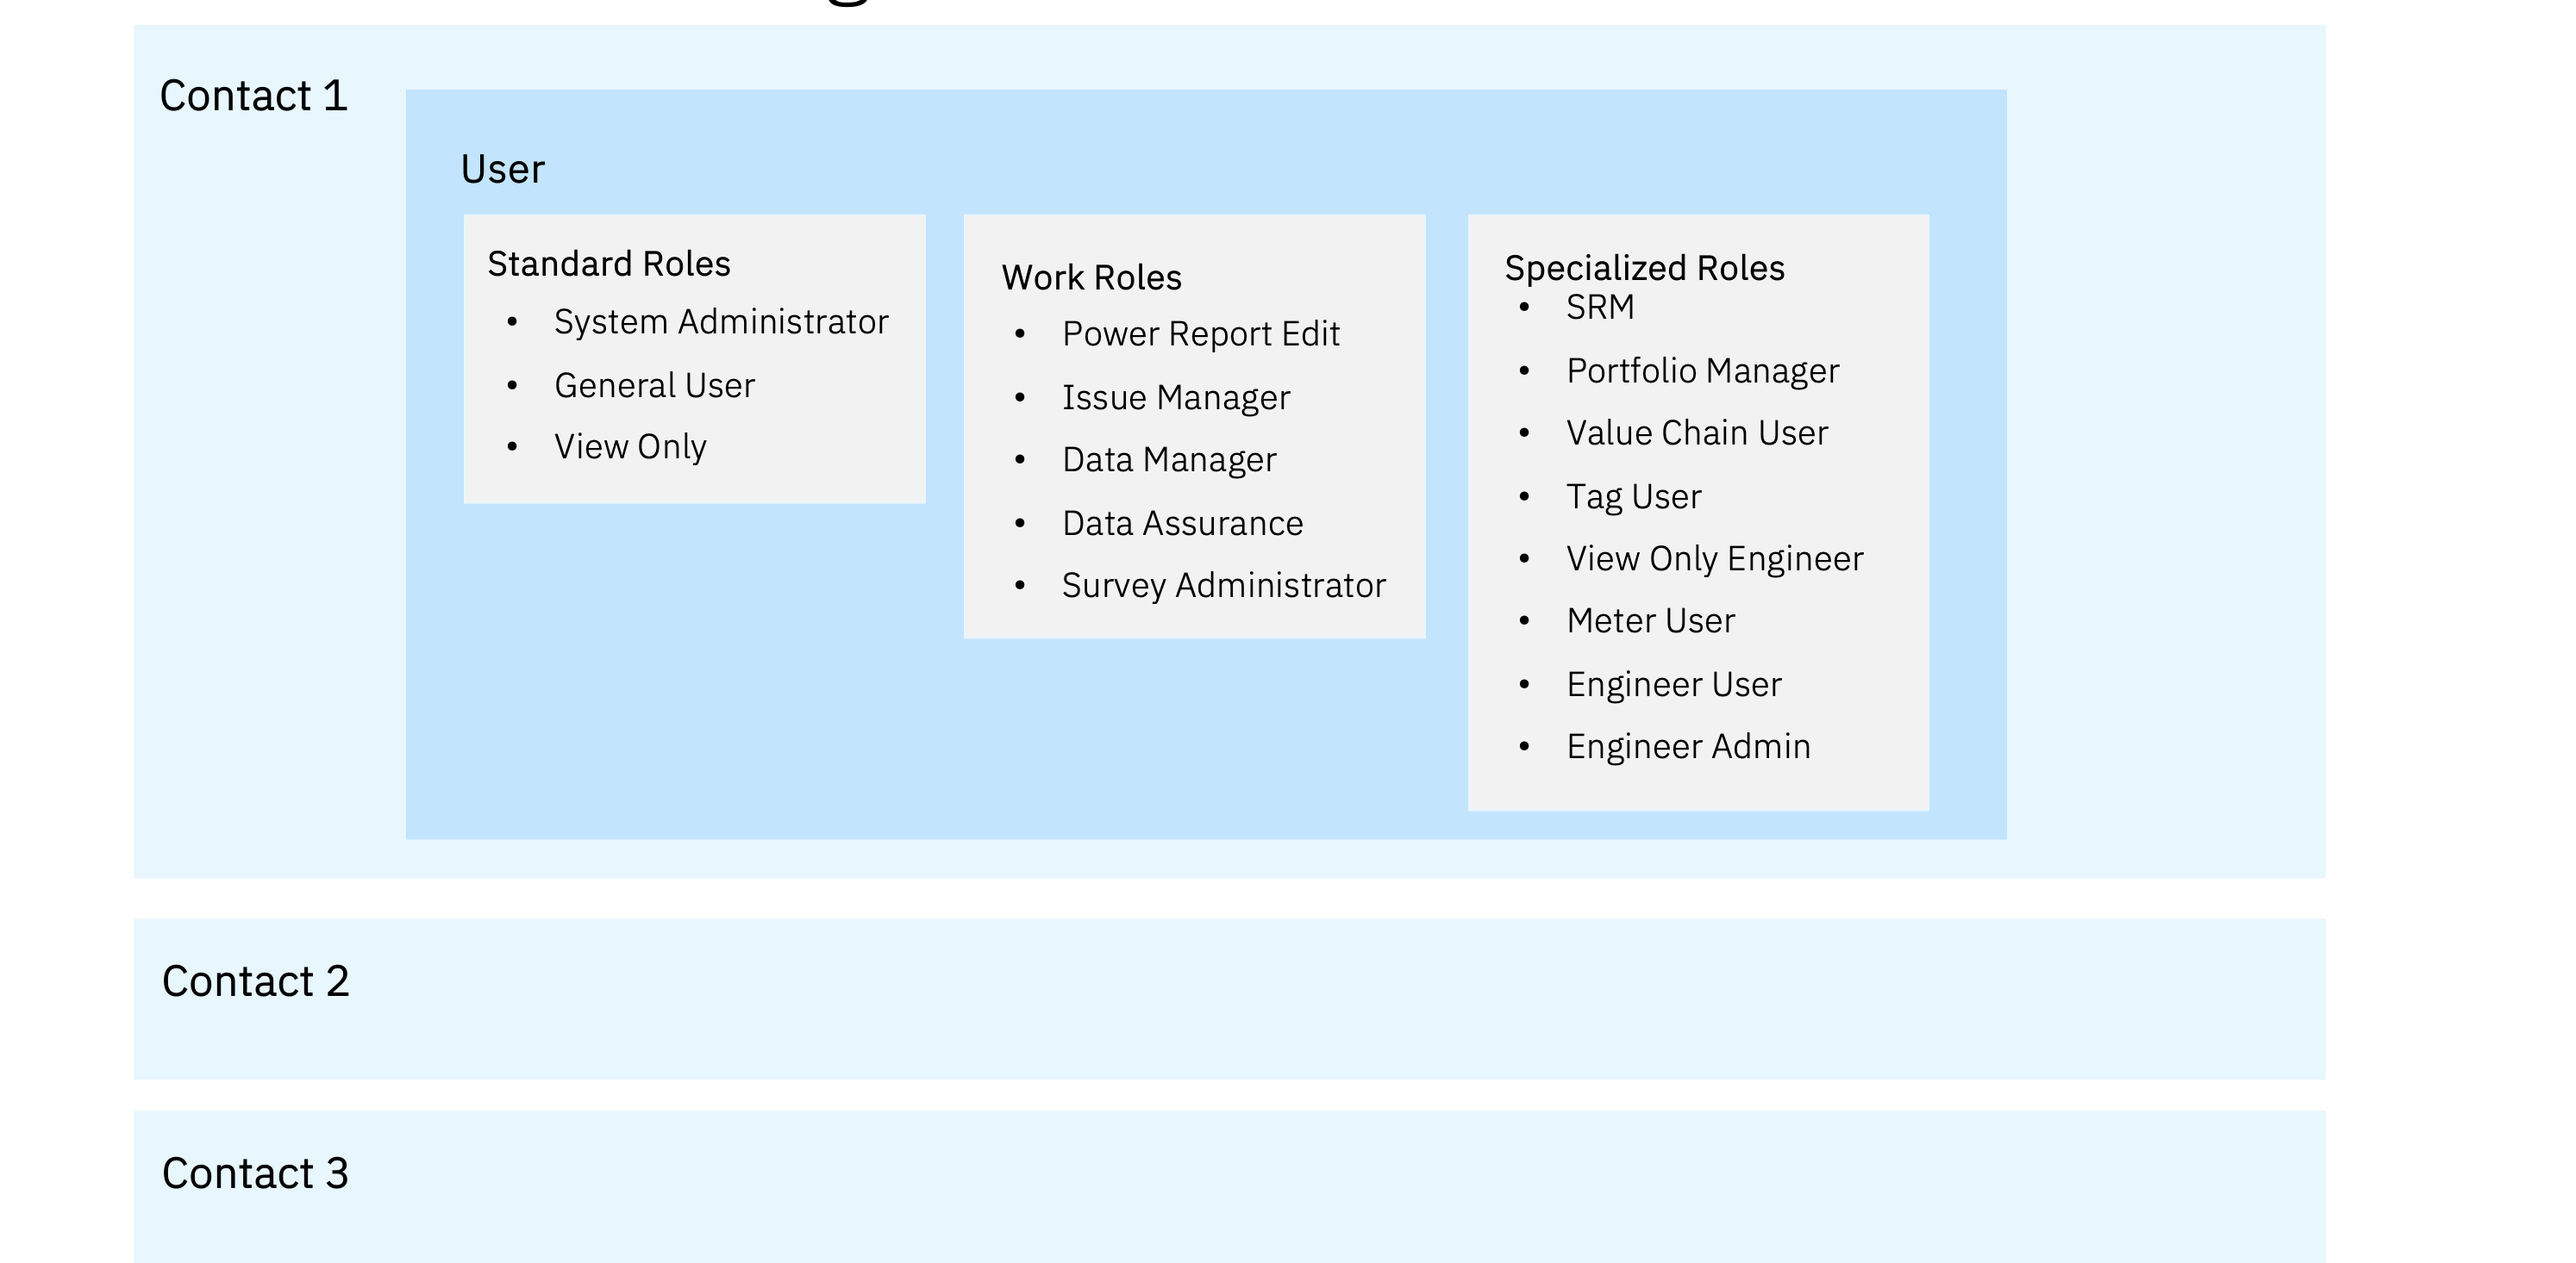
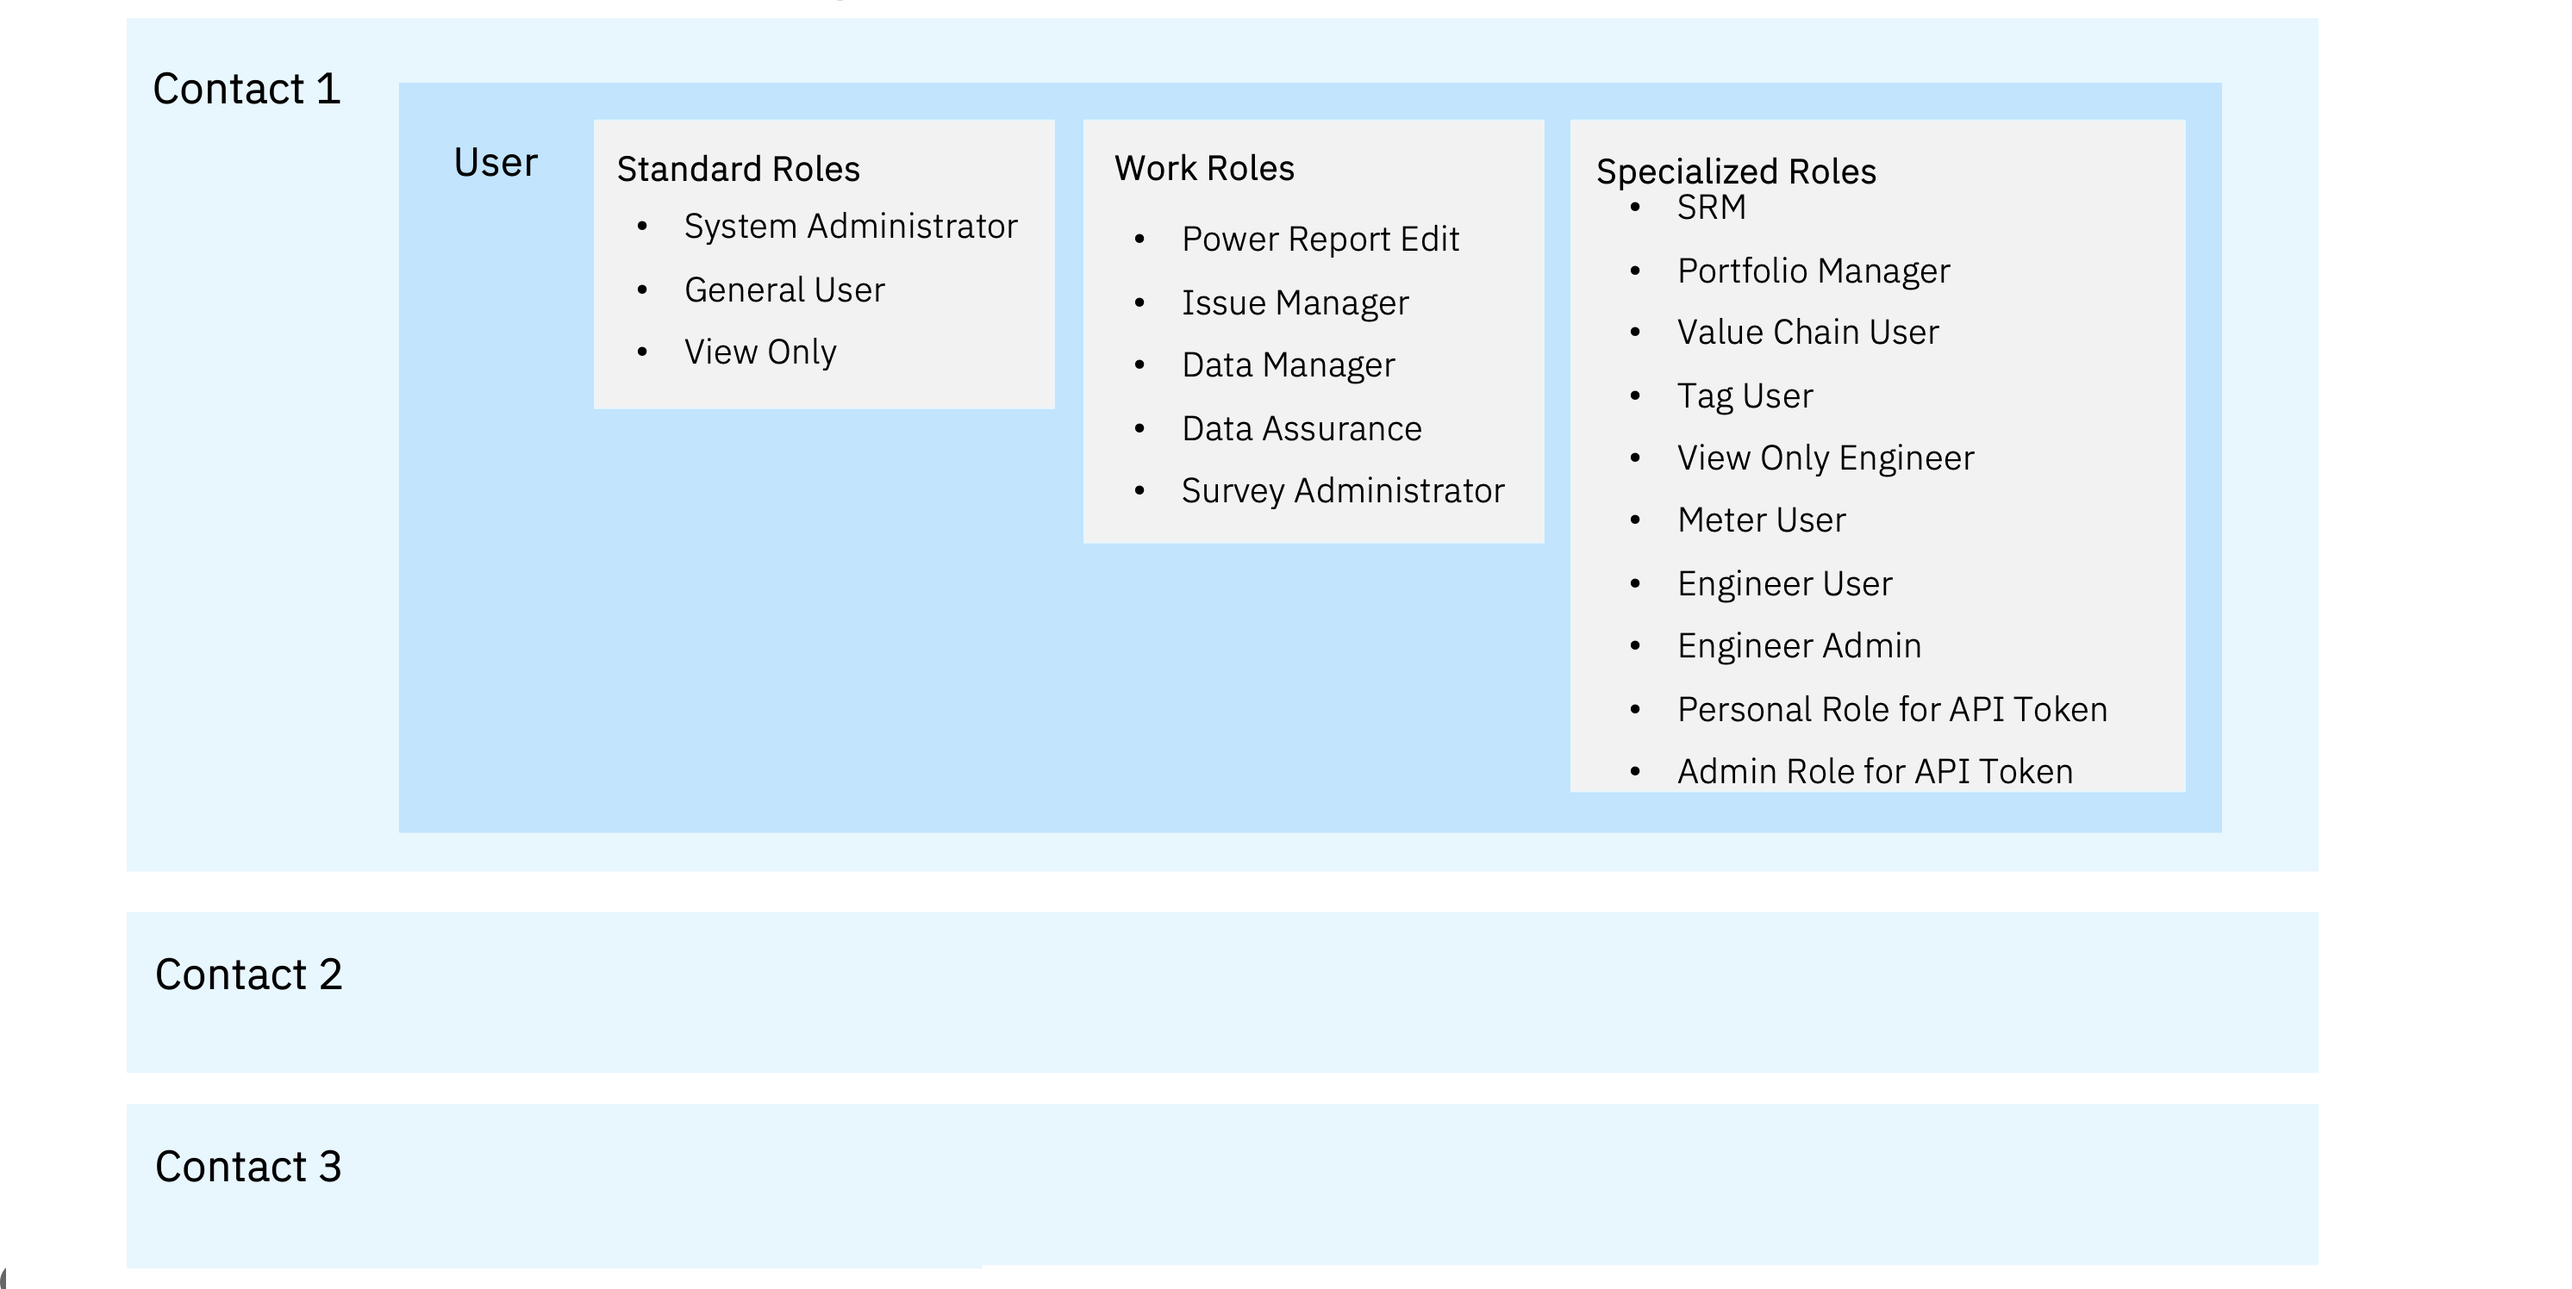
update

Changed region(s): [[0.0623, 0.0614, 0.8727, 0.6753], [0.0623, 0.8902, 0.1558, 0.9516], [0.0623, 0.7367, 0.1247, 0.7981]]

diff --git a/160-contacts-logins/readme.md b/160-contacts-logins/readme.md
@@ -57,9 +57,13 @@ Access Role determines the ability of a user to make data changes in Envizi. In 
 
 **View Only Engineer** has a user experience that is optimized for users of EFD and APM. The user has a limited set of menus which align with the EFD and APM modules. View only users can’t edit or change information, rather only view charts and run reports.
 
-Tag User has a user experience that is optimized for users who have general user access to one Tag only.
+**Tag User** has a user experience that is optimized for users who have general user access to one Tag only.
 
-Tag View Only has a user experience that is optimized for users who have view only access to one Tag only.
+**Tag View Only** has a user experience that is optimized for users who have view only access to one Tag only.
+
+**Personal Role for API Tokens** allows the user to have access to APIs.
+
+**Admin  Role for API Tokens** allows the user to have access to APIs.
 
 
 In this lab exercise we will create Contacts and Logins in Envizi for a given organization using Envizi Setup Contacts excel template.
@@ -76,17 +80,13 @@ Work roles enable users to perform specialized functions, the main one being rec
 - Each module will specify what work roles may be required to perform specific functions within that module.
 - A contact can have multiple work roles
 
+Here are the roles available.
 
-
-Data Assurance - used in Data Receipt reporting.
-
-Data Manager - used in Data Receipt reporting.
-
-Issue Manager - used in Issue Management.
-
-PowerReport Edit - used in PowerReports.
-
-Survey Administrator - used in Value Chain Survey.
+1. Data Assurance - used in Data Receipt reporting.
+2. Data Manager - used in Data Receipt reporting.
+3. Issue Manager - used in Issue Management.
+4. PowerReport Edit - used in PowerReports.
+5. Survey Administrator - used in Value Chain Survey.
 
 ## Next Steps
 
